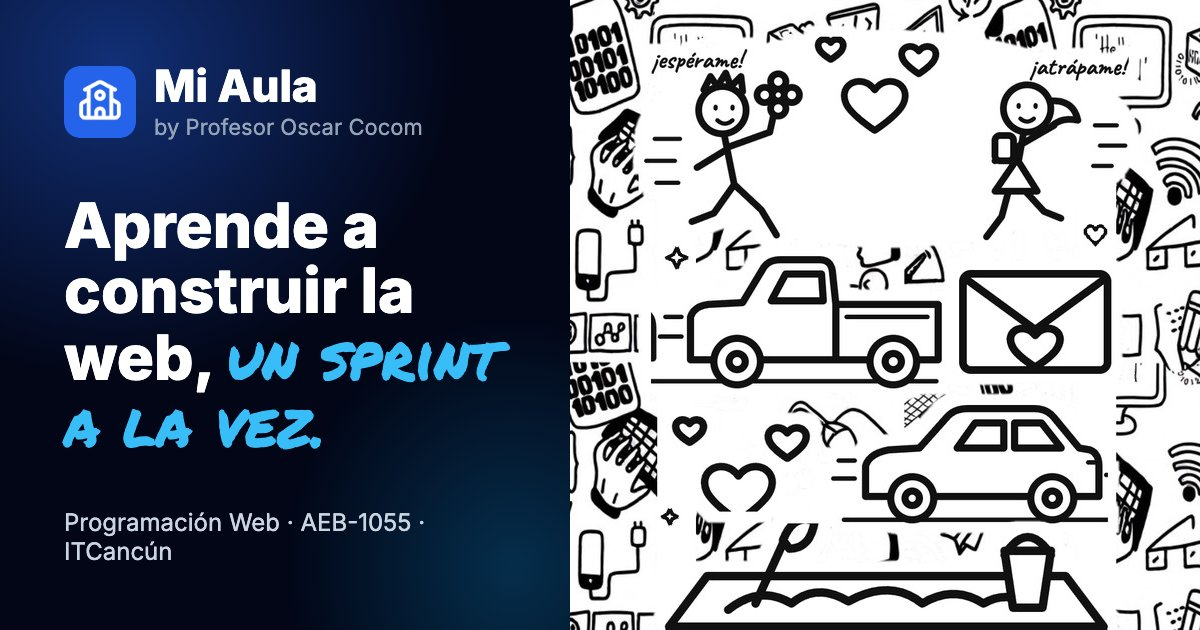
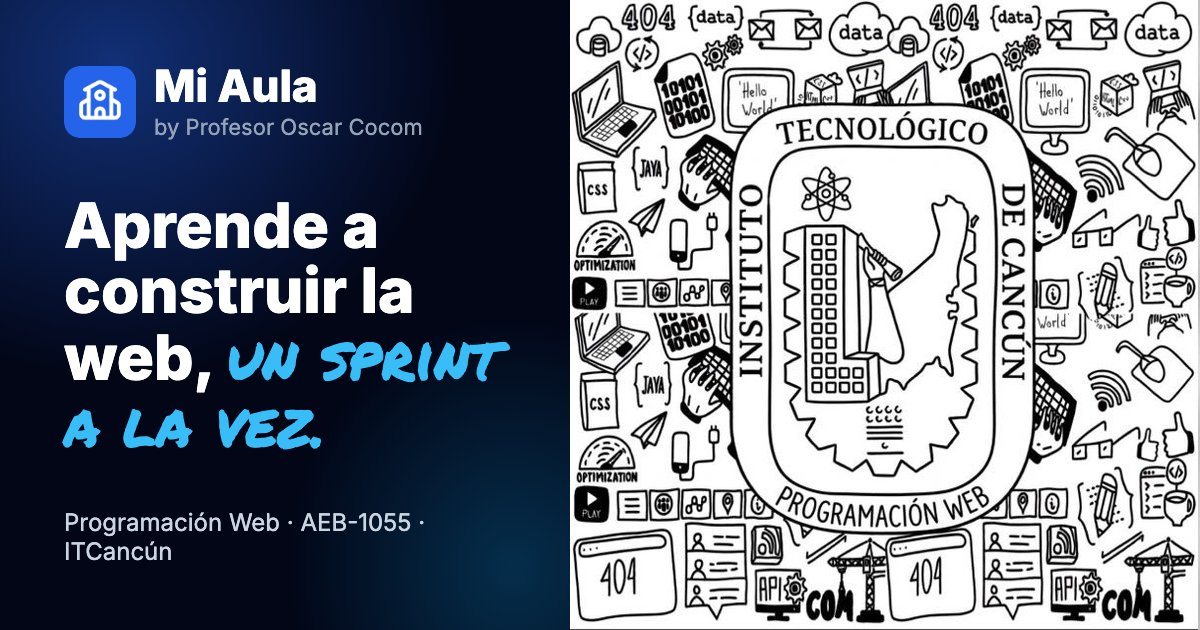
feat: show the original Tec doodle art on the landing and share preview
- Landing hero card uses the original artwork with the Instituto
  Tecnológico de Cancún logo; the faint background keeps the new cartoons
- Share preview (og.jpg) uses the same Tec artwork; bump its URL so
  WhatsApp fetches the new image

Changed region(s): [[0.4625, 0.0, 1.0, 1.0]]

diff --git a/src/components/pages/LoginPage.jsx b/src/components/pages/LoginPage.jsx
@@ -11,6 +11,7 @@ import { inAppBrowserName, isAndroid, chromeIntentUrl } from '@/lib/browser';
 import teamsData from '@/data/teams.json';
 import studentsData from '@/data/students.json';
 import doodles from '@/assets/landing-doodles.webp';
+import tecDoodles from '@/assets/logo-tec-doodles.webp';
 
 // Course calendar (ADR-002). Dates are YYYY-MM-DD in Cancún time.
 const SPRINTS = [
@@ -226,11 +227,11 @@ export function LoginPage() {
             <div className="relative mx-auto w-full max-w-md lg:max-w-none">
               <div className="absolute -inset-3 rotate-2 rounded-3xl bg-primary/15" aria-hidden="true" />
               <img
-                src={doodles}
-                alt="Dibujos de programación web con una pareja corriendo, un sandbox, un sedán y una camioneta"
+                src={tecDoodles}
+                alt="Logo del Instituto Tecnológico de Cancún, Programación Web, rodeado de dibujos de programación"
                 className="relative w-full -rotate-1 rounded-3xl border-2 border-slate-950 bg-white shadow-xl"
-                width="1290"
-                height="1290"
+                width="640"
+                height="640"
               />
               <div className="absolute -bottom-4 left-4 right-4 sm:left-auto sm:right-6 rounded-xl border bg-background/95 px-4 py-3 shadow-lg backdrop-blur">
                 <p className="text-xs text-muted-foreground">Ahora mismo</p>

diff --git a/index.html b/index.html
@@ -13,7 +13,7 @@
     <meta property="og:title" content="Mi Aula · Programación Web ITCancún" />
     <meta property="og:description" content="Tu avance del semestre en un solo lugar: tareas, proyecto, asistencia y calificación de cada sprint." />
     <meta property="og:url" content="https://classroom-xi-five.vercel.app/" />
-    <meta property="og:image" content="https://classroom-xi-five.vercel.app/og.jpg" />
+    <meta property="og:image" content="https://classroom-xi-five.vercel.app/og.jpg?v=2" />
     <meta property="og:image:width" content="1200" />
     <meta property="og:image:height" content="630" />
     <meta property="og:locale" content="es_MX" />
